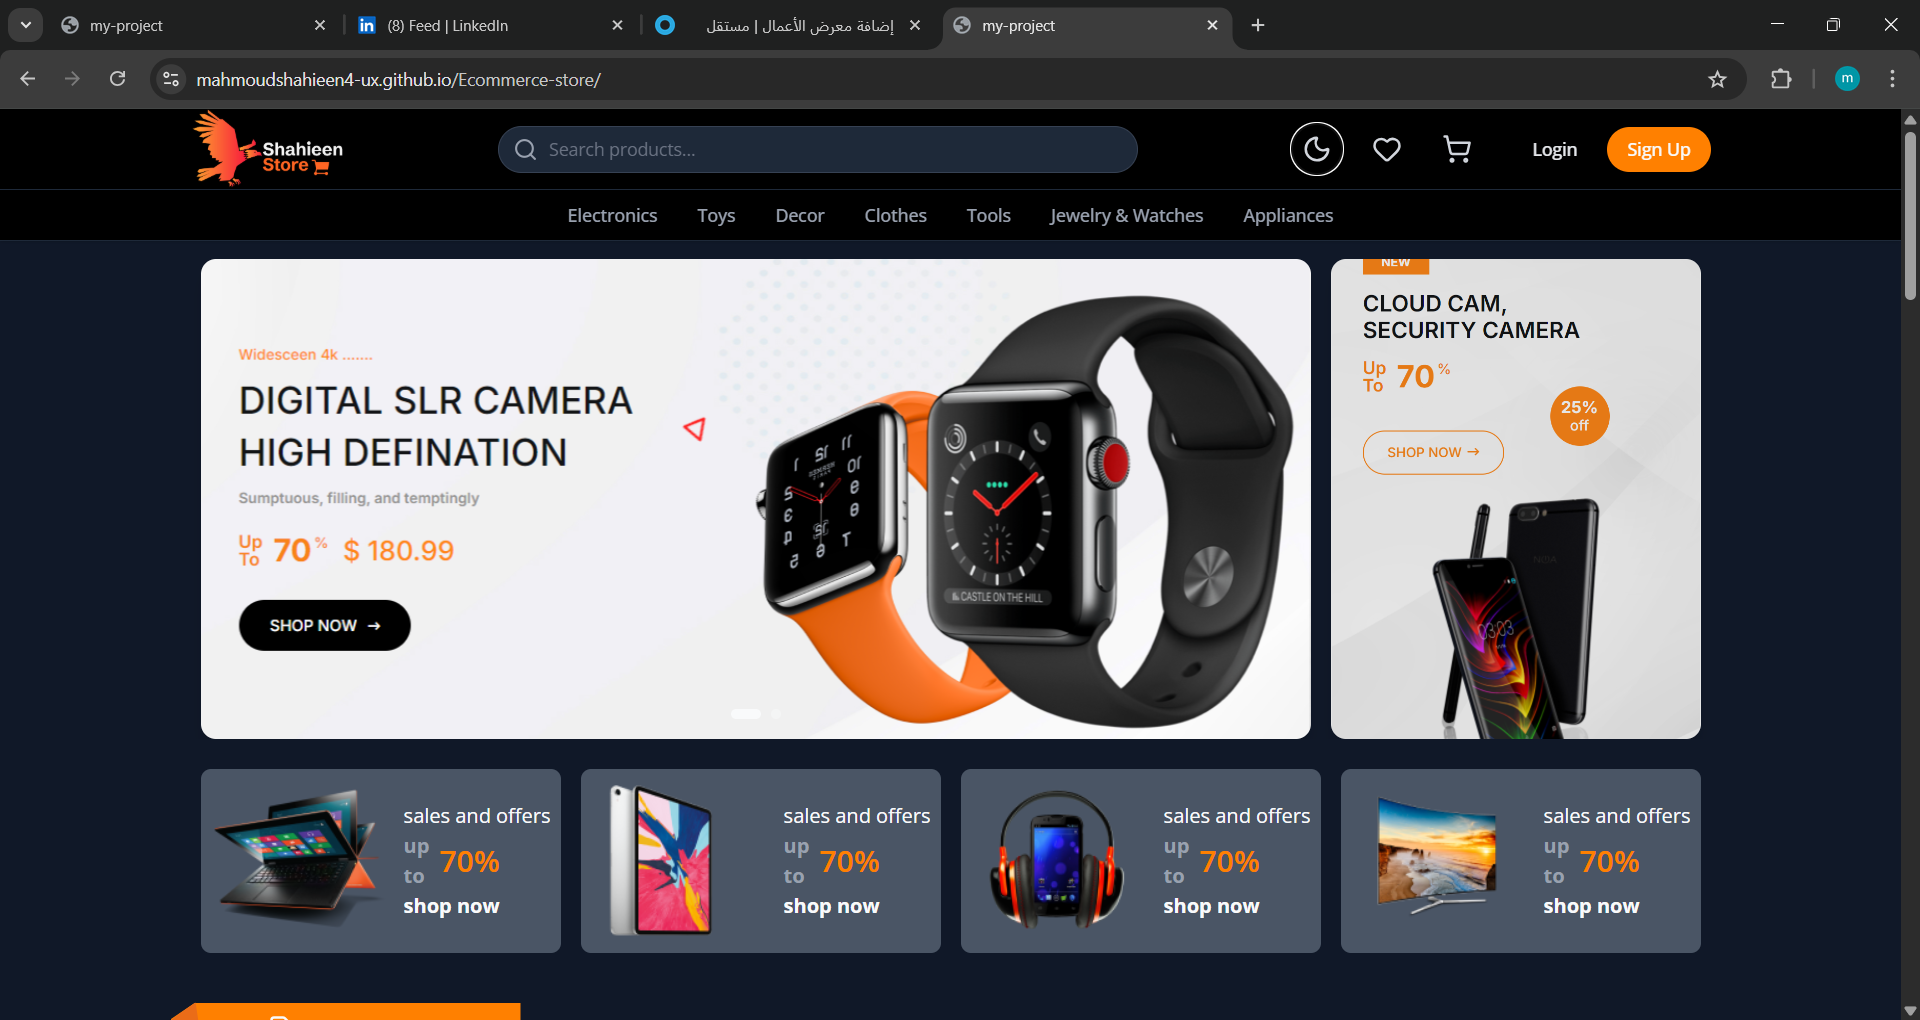
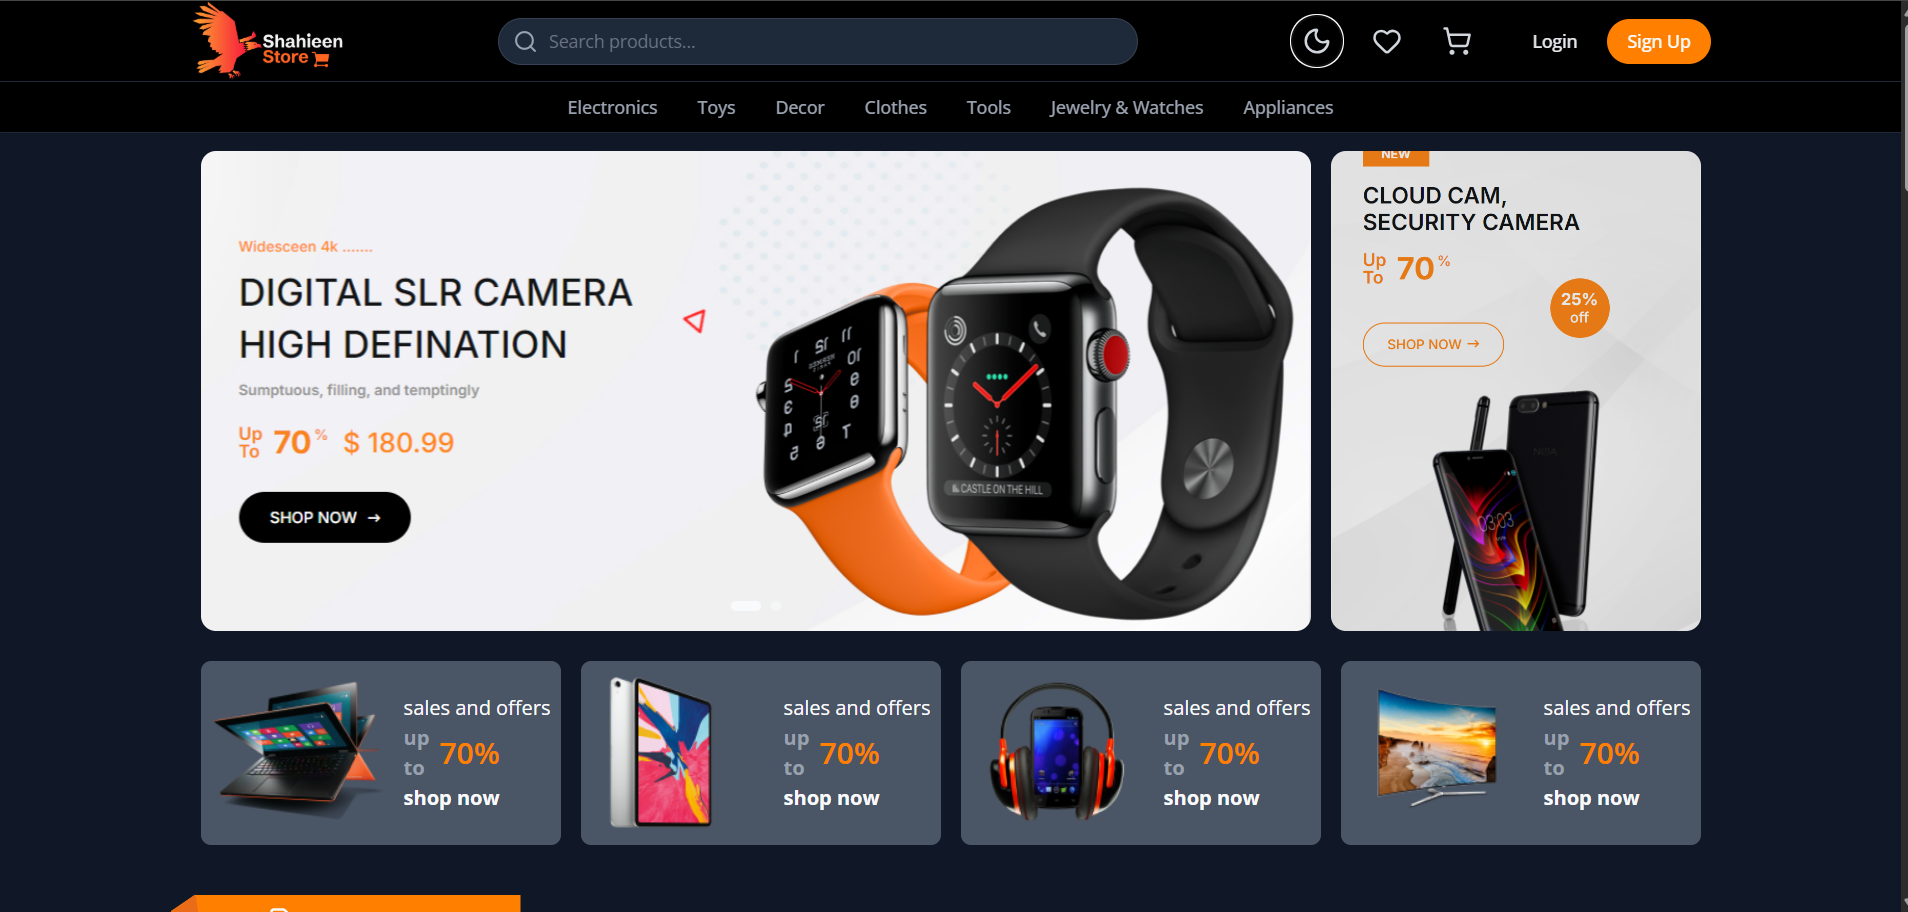
..

diff --git a/index.html b/index.html
@@ -79,22 +79,17 @@
             >
               <img src="images/steam games.png" alt="steam games project" />
             </a>
-            <a href="#" target="_blank" class="item" style="--position: 3">
-              <img src="images/bee.png" alt="Fantasy Portfolio" />
-            </a>
             <a
-              href="https://udemy-1fcmyf0ja-mahmoud-shahieens-projects.vercel.app/"
+              href="https://solo-leveling-eosin.vercel.app/"
               target="_blank"
               class="item"
               style="--position: 4"
             >
-              <img src="images/Screenshot 2026-02-08 141739.png" alt="udemy" />
+              <img src="images/solo-leveling.png" alt="solo leveling" />
             </a>
-            <a href="#" target="_blank" class="item" style="--position: 5">
-              <img src="images/dragon_5.jpg" alt="Creative Studio" />
-            </a>
-            <a href="#" target="_blank" class="item" style="--position: 6">
-              <img src="images/dragon_6.jpg" alt="Tech Showcase" />
+            <a href="https://aureum-608103945778.europe-west2.run.app"
+              target="_blank" class="item" style="--position: 5">
+              <img src="images/golden-shop.png" alt="golden shop" />
             </a>
           </div>
           <div class="content">